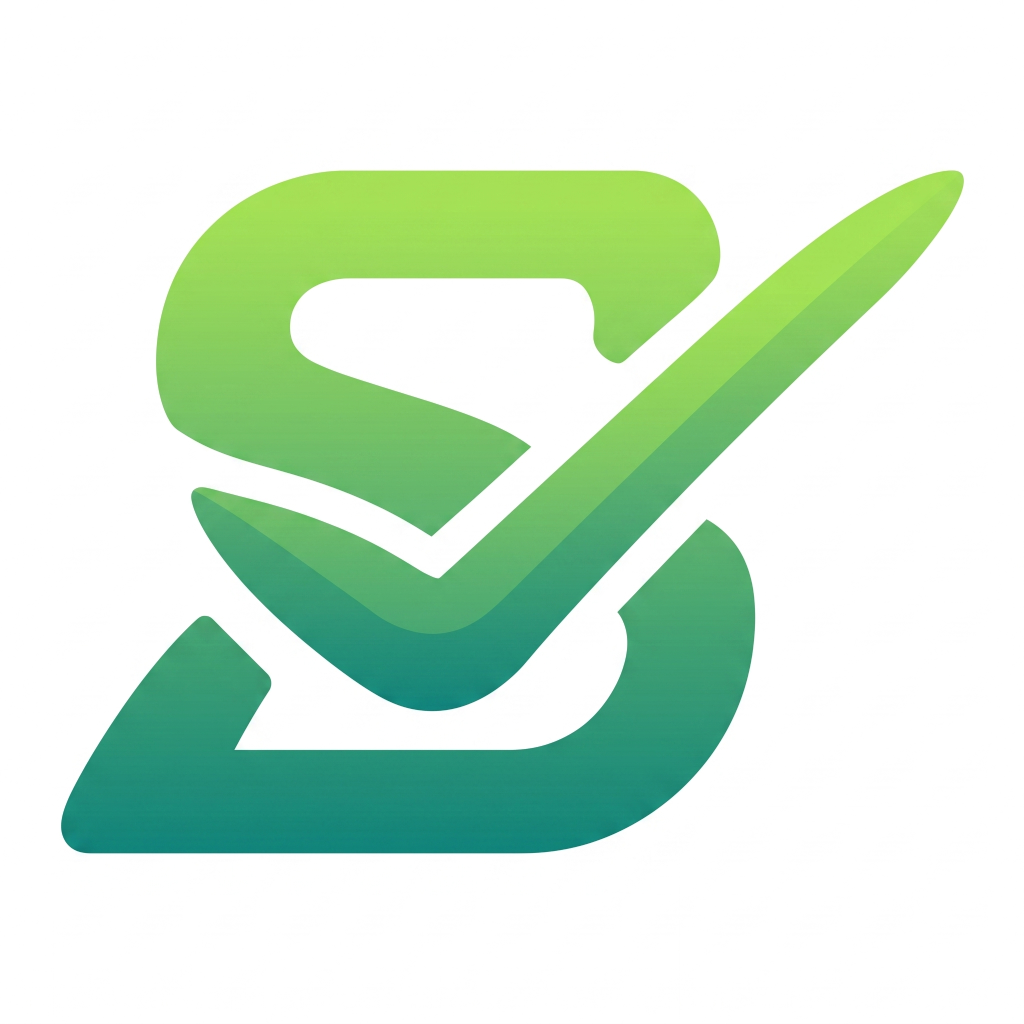
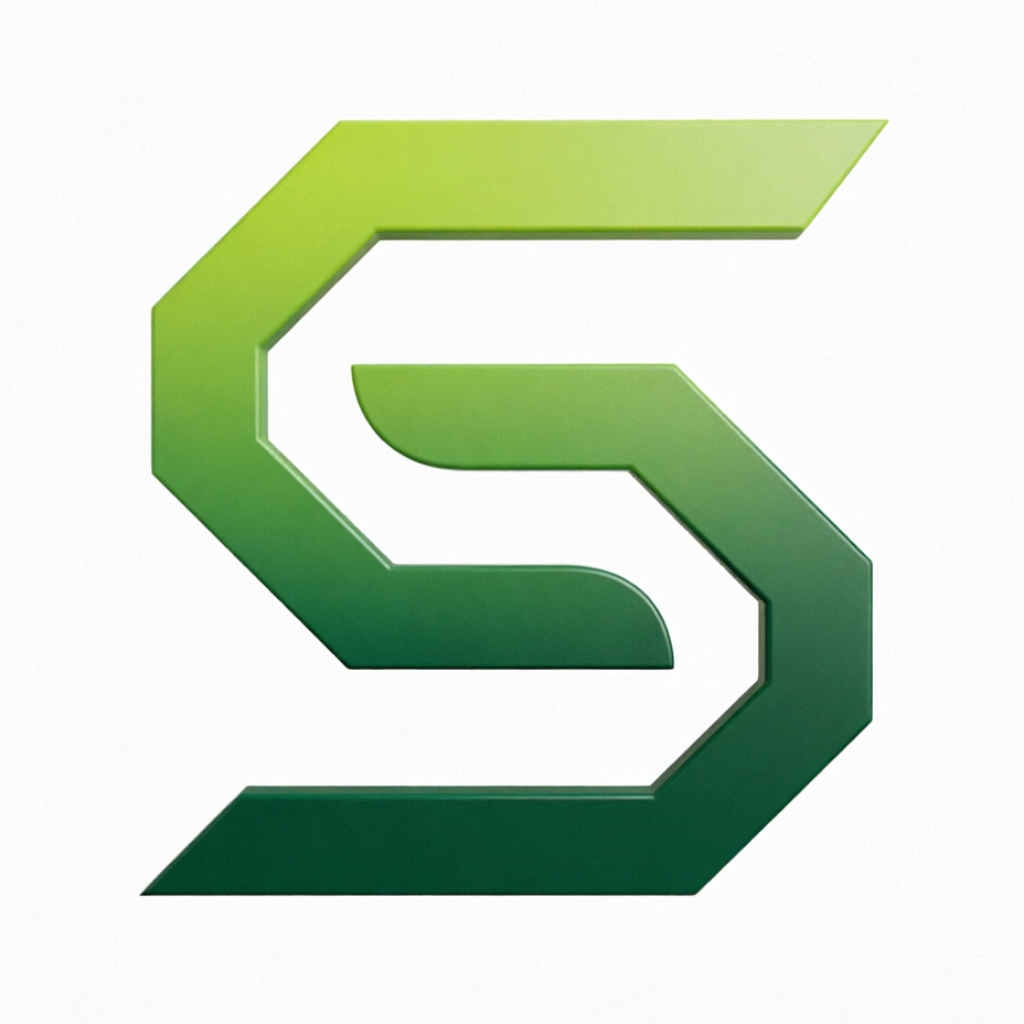
fix: some style

diff --git a/src/app/(tabs)/index.tsx b/src/app/(tabs)/index.tsx
@@ -1,31 +1,37 @@
 import { Ionicons } from "@expo/vector-icons";
-import { FlashList } from "@shopify/flash-list";
 import type { ListRenderItem } from "@shopify/flash-list";
+import { FlashList } from "@shopify/flash-list";
 import { useRouter } from "expo-router";
 import { useAtomValue } from "jotai";
 import React, { memo, useCallback, useMemo } from "react";
-import { Pressable, StyleSheet, View } from "react-native";
+import { Pressable, StyleSheet, TouchableOpacity, View } from "react-native";
 import { SafeAreaView } from "react-native-safe-area-context";
 import { XStack, YStack } from "tamagui";
 
 import {
-  AppButton,
   PageHeader,
   TextBodyLg,
   TextBodySm,
   TextCaption,
   TextH3,
 } from "@/components";
-import { usePendingWebOrdersQuery } from "@/hooks/api/use-kasir-api";
-import { useAuth } from "@/lib/auth";
-import type { PendingWebOrder } from "@/lib/api/types";
 import { isShiftStartedAtom } from "@/features/shift/store/shift.store";
-import { ColorBase, ColorNeutral, ColorPrimary, ColorSuccess } from "@/themes/Colors";
+import { usePendingWebOrdersQuery } from "@/hooks/api/use-kasir-api";
+import type { PendingWebOrder } from "@/lib/api/types";
+import { useAuth } from "@/lib/auth";
+import {
+  ColorBase,
+  ColorNeutral,
+  ColorPrimary,
+  ColorSuccess,
+} from "@/themes/Colors";
 import { formatPrice } from "@/utils";
 
 function formatItems(order: PendingWebOrder): string {
   return order.items
-    .map((i) => `${i.qty}x ${i.name}${i.variantName ? ` (${i.variantName})` : ""}`)
+    .map(
+      (i) => `${i.qty}x ${i.name}${i.variantName ? ` (${i.variantName})` : ""}`,
+    )
     .join(", ");
 }
 
@@ -40,15 +46,25 @@ const PendingOrderCard = memo(function PendingOrderCard({
 
   return (
     <Pressable
-      style={({ pressed }) => [styles.orderCard, pressed && styles.orderCardPressed]}
+      style={({ pressed }) => [
+        styles.orderCard,
+        pressed && styles.orderCardPressed,
+      ]}
       onPress={onPress}
     >
       <XStack justifyContent="space-between" alignItems="flex-start">
         <XStack gap={8} alignItems="center" flexWrap="wrap" flex={1}>
-          <View style={[styles.badge, isOnline ? styles.badgeOnline : styles.badgeManual]}>
+          <View
+            style={[
+              styles.badge,
+              isOnline ? styles.badgeOnline : styles.badgeManual,
+            ]}
+          >
             <TextCaption
               fontWeight="700"
-              color={isOnline ? ColorSuccess.success700 : ColorPrimary.primary700}
+              color={
+                isOnline ? ColorSuccess.success700 : ColorPrimary.primary700
+              }
             >
               {isOnline ? "QRIS/VA" : "Manual"}
             </TextCaption>
@@ -61,13 +77,18 @@ const PendingOrderCard = memo(function PendingOrderCard({
           <TextBodyLg fontWeight="800" color={ColorPrimary.primary700}>
             {formatPrice(order.grandTotal)}
           </TextBodyLg>
-          <Ionicons name="chevron-forward" size={18} color={ColorNeutral.neutral400} />
+          <Ionicons
+            name="chevron-forward"
+            size={18}
+            color={ColorNeutral.neutral400}
+          />
         </XStack>
       </XStack>
 
       <YStack gap={2}>
         <TextBodyLg fontWeight="700">
-          {[order.tableLabel, order.customerName].filter(Boolean).join(" · ") || "Takeaway"}
+          {[order.tableLabel, order.customerName].filter(Boolean).join(" · ") ||
+            "Takeaway"}
         </TextBodyLg>
         {order.customerPhone ? (
           <TextBodySm color="$colorSecondary">{order.customerPhone}</TextBodySm>
@@ -94,9 +115,12 @@ export default function WebOrdersTabPage() {
   const { isLoggedIn } = useAuth();
   const isShiftStarted = useAtomValue(isShiftStartedAtom);
 
-  const { data = [], isLoading, isError, refetch } = usePendingWebOrdersQuery(
-    Boolean(isLoggedIn && isShiftStarted),
-  );
+  const {
+    data = [],
+    isLoading,
+    isError,
+    refetch,
+  } = usePendingWebOrdersQuery(Boolean(isLoggedIn && isShiftStarted));
 
   const onNavigate = useCallback(
     (orderId: string) => {
@@ -139,7 +163,9 @@ export default function WebOrdersTabPage() {
     () => (
       <YStack gap="$3" marginBottom="$2">
         <View style={styles.summaryCard}>
-          <TextCaption color="rgba(255,255,255,0.8)">Menunggu konfirmasi</TextCaption>
+          <TextCaption color="rgba(255,255,255,0.8)">
+            Menunggu konfirmasi
+          </TextCaption>
           <TextBodyLg fontWeight="700" color={ColorBase.white}>
             {data.length} pesanan
           </TextBodyLg>
@@ -163,9 +189,20 @@ export default function WebOrdersTabPage() {
         title="Web Orders"
         subtitle="Pesanan dari QR/Web menunggu konfirmasi pembayaran kasir"
         actions={
-          <AppButton variant="outline" size="sm" onPress={() => void refetch()}>
-            Refresh
-          </AppButton>
+          <TouchableOpacity
+            activeOpacity={0.85}
+            style={{ flexDirection: "row", alignItems: "center", gap: 4 }}
+            onPress={() => void refetch()}
+          >
+            <Ionicons
+              name="refresh-outline"
+              size={18}
+              color={ColorPrimary.primary600}
+            />
+            <TextBodySm fontWeight="600" color={ColorPrimary.primary600}>
+              Refresh
+            </TextBodySm>
+          </TouchableOpacity>
         }
       />
 

diff --git a/src/features/transactions/screens/transaction-entry/tablet/TransactionEntryTabletScreen.tsx b/src/features/transactions/screens/transaction-entry/tablet/TransactionEntryTabletScreen.tsx
@@ -3,20 +3,18 @@ import { StyleSheet, View } from "react-native";
 import { SafeAreaView } from "react-native-safe-area-context";
 
 import { IconButton, PageHeader } from "@/components";
-import { useDeviceProfile } from "@/hooks/use-device-profile";
 import {
   CartPanel,
   ProductGrid,
   VariantSheet,
 } from "@/features/transactions/components/transaksi-baru";
+import { useDeviceProfile } from "@/hooks/use-device-profile";
 import { ColorBase, ColorSurface } from "@/themes/Colors";
 
 import { useTransactionEntry } from "../shared/useTransactionEntry";
 
 export function TransactionEntryTabletScreen() {
-  const {
-    width,
-  } = useDeviceProfile();
+  const { width } = useDeviceProfile();
   const {
     products,
     categoryFilter,
@@ -43,17 +41,14 @@ export function TransactionEntryTabletScreen() {
             title="Input Manual"
             subtitle="Pilih menu, atur catatan item, lalu lanjut ke pembayaran"
             actions={
-              <>
-                <IconButton
-                  iconName="scan-outline"
-                  onPress={openScanner}
-                />
+              <View style={{ flexDirection: "row", gap: 8 }}>
+                <IconButton iconName="scan-outline" onPress={openScanner} />
                 <IconButton
                   iconName="pause-circle-outline"
                   onPress={openHeldOrders}
                   badge={heldOrdersCount > 0 ? heldOrdersCount : undefined}
                 />
-              </>
+              </View>
             }
           />
 

diff --git a/src/components/molecules/PageHeader.tsx b/src/components/molecules/PageHeader.tsx
@@ -4,10 +4,10 @@
  * Replaces the repeated XStack header pattern in Transaksi, Inventori,
  * and Pengaturan pages.
  */
+import { ColorBase, ColorSurface } from "@/themes/Colors";
 import React from "react";
 import { StyleSheet, View } from "react-native";
 import { XStack, YStack } from "tamagui";
-import { ColorBase, ColorSurface } from "@/themes/Colors";
 
 import { IconButton } from "../atoms/IconButton";
 import { TextBodySm, TextH2, TextH3 } from "../atoms/Typography";
@@ -88,6 +88,7 @@ const styles = StyleSheet.create({
     borderBottomColor: ColorSurface.border,
     borderTopLeftRadius: 26,
     borderTopRightRadius: 26,
+    marginBottom: 12,
   },
   header: {
     width: "100%",